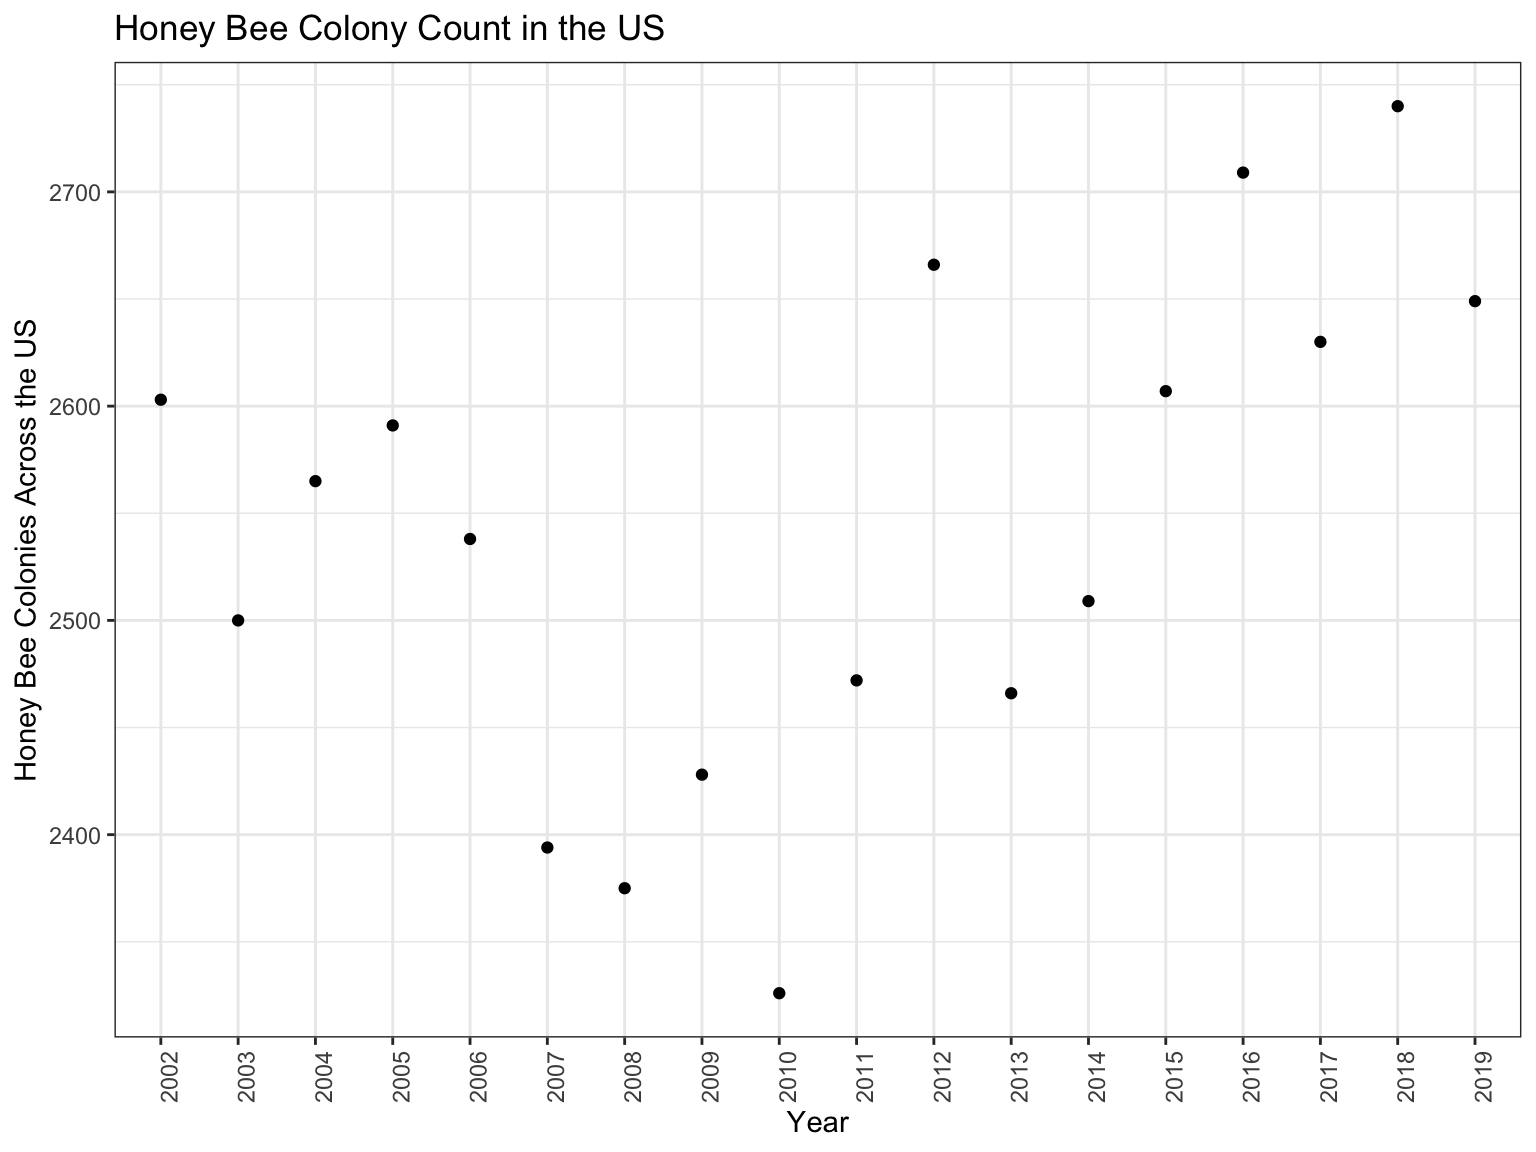
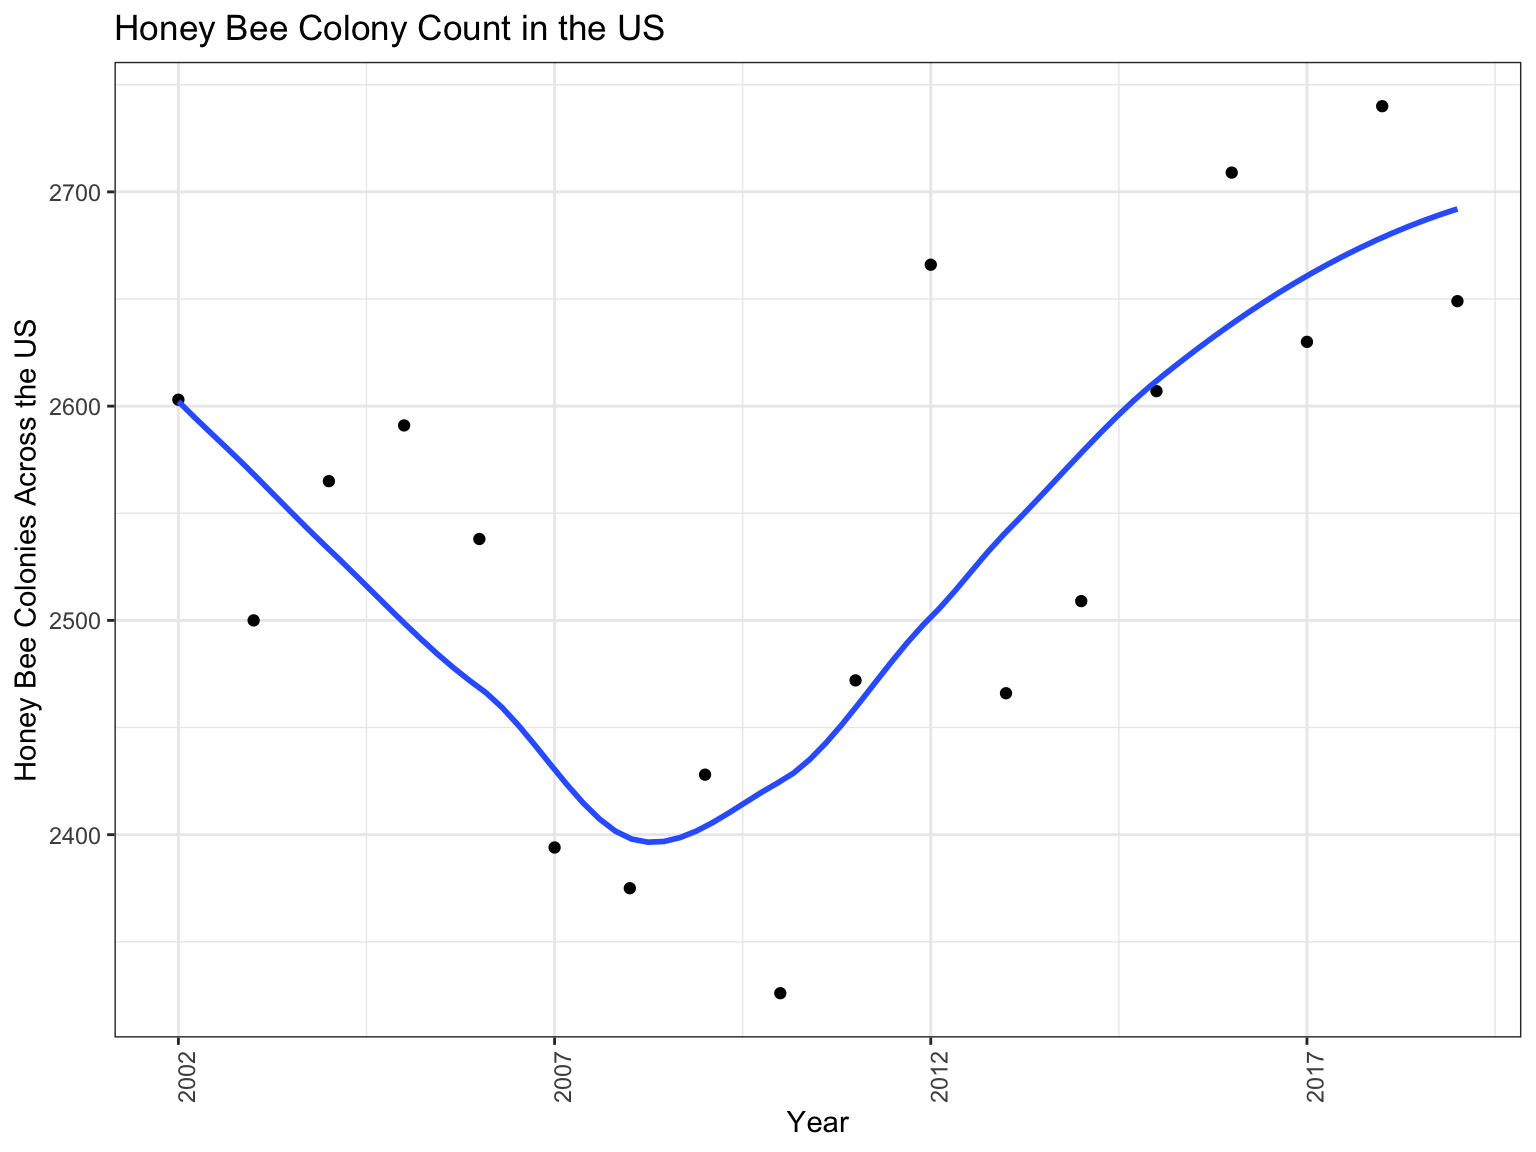
updated rmd with exported csv files

diff --git a/Analysis-and-Visualization.html b/Analysis-and-Visualization.html
@@ -277,10 +277,13 @@ $(document).ready(function () {
       </ul>
       <ul class="nav navbar-nav navbar-right">
         <li>
-  <a href="landing.html">Background</a>
+  <a href="dashboard.html">Bees</a>
 </li>
 <li>
-  <a href="dashboard.html">Bee Variability</a>
+  <a href="pesticides.html">Pesticides</a>
+</li>
+<li>
+  <a href="screen.html">Screencast</a>
 </li>
 <li>
   <a href="report.html">Report</a>
@@ -311,11 +314,144 @@ $(document).ready(function () {
 </div>
 
 
-<div id="need-to-change-the-labels-and-axis-for-all-graphs" class="section level2">
-<h2>need to change the labels and axis for all graphs</h2>
-<p>r # honey bee population for country by year clean_bee_data %&gt;% group_by(year) %&gt;% summarise(n = sum(honey_producing_colonies)) %&gt;% ggplot(aes(x = year, y = n)) + geom_point() + theme(axis.text.x = element_text(angle = 90)) + labs( title = “Honey Bee Colony Count in the US”, x = “Year”, y = “Honey Bee Colonies Across the US” )</p>
-<p>r # all bee population for country by year year_county_bee = bee_county %&gt;% mutate(colony_count = as.numeric(colony_count)) %&gt;% drop_na(colony_count) %&gt;% group_by(year) %&gt;% summarise(n = sum(colony_count))</p>
-<p>year_county_bee %&gt;% ggplot(aes(x = year, y = n)) + geom_col() + theme(axis.text.x = element_text(angle = 90)) + labs( title = “Bee Colony Count in the US”, x = “Year”, y = “Bee Colonies Across the US” ) + scale_x_continuous( breaks = c(2002, 2007, 2012) ) + scale_y_continuous( breaks = c(100000, 200000, 225000, 250000, 275000, 300000) )</p>
+<pre class="r"><code>clean_bee_data = read_csv(&quot;./data/clean_bee_data.csv&quot;)</code></pre>
+<pre><code>## Parsed with column specification:
+## cols(
+##   X1 = col_double(),
+##   year = col_double(),
+##   state = col_character(),
+##   honey_producing_colonies = col_double(),
+##   yield_per_colony = col_double(),
+##   production = col_double(),
+##   stocks = col_double(),
+##   price_per_pound = col_double(),
+##   production_value = col_double()
+## )</code></pre>
+<pre class="r"><code># honey bee population for country by year
+clean_bee_data %&gt;%
+   mutate(year = as.numeric(year)) %&gt;%
+   group_by(year) %&gt;%
+   summarise(n = sum(honey_producing_colonies)) %&gt;%
+   ggplot(aes(x = year, y = n)) + 
+   geom_point() + 
+   geom_smooth(se = FALSE) +
+   theme(axis.text.x = element_text(angle = 90)) +
+   labs(
+     title = &quot;Honey Bee Colony Count in the US&quot;,
+     x = &quot;Year&quot;,
+     y = &quot;Honey Bee Colonies Across the US&quot;) +
+   scale_x_continuous(
+      breaks = c(2002, 2007, 2012, 2017))</code></pre>
+<pre><code>## `geom_smooth()` using method = &#39;loess&#39; and formula &#39;y ~ x&#39;</code></pre>
+<p><img src="Analysis-and-Visualization_files/figure-html/unnamed-chunk-1-1.png" width="90%" /></p>
+<pre class="r"><code>bee_county = read_csv(&quot;./data/bee_county.csv&quot;)</code></pre>
+<pre><code>## Parsed with column specification:
+## cols(
+##   X1 = col_double(),
+##   year = col_double(),
+##   state = col_character(),
+##   state_ansi = col_character(),
+##   ag_district = col_character(),
+##   ag_district_code = col_double(),
+##   county = col_character(),
+##   county_ansi = col_character(),
+##   colony_count = col_number(),
+##   cv_percent = col_character(),
+##   state_county_fips = col_character()
+## )</code></pre>
+<pre class="r"><code>bee_county %&gt;%
+   mutate(colony_count = as.numeric(colony_count)) %&gt;%
+   drop_na(colony_count) %&gt;%
+   group_by(year) %&gt;%
+   summarise(n = sum(colony_count)) %&gt;%
+   ggplot(aes(x = year, y = n)) + 
+   geom_point() + 
+   geom_smooth() +
+     theme(axis.text.x = element_text(angle = 90)) +
+   labs(
+     title = &quot;Bee Colony Count in the US&quot;,
+      x = &quot;Year&quot;,
+     y = &quot;Bee Colonies Across the US&quot;) + 
+   scale_x_continuous(
+      breaks = c(2002, 2007, 2012))</code></pre>
+<pre><code>## `geom_smooth()` using method = &#39;loess&#39; and formula &#39;y ~ x&#39;</code></pre>
+<p><img src="Analysis-and-Visualization_files/figure-html/unnamed-chunk-2-1.png" width="90%" /></p>
+<pre class="r"><code>top_pesticides = read_csv(&quot;./data/top_pesticides.csv&quot;)</code></pre>
+<pre><code>## Parsed with column specification:
+## cols(
+##   X1 = col_double(),
+##   compound = col_character(),
+##   year = col_double(),
+##   epest_low_kg = col_double(),
+##   epest_high_kg = col_double(),
+##   state_fips = col_character(),
+##   county_fips = col_character(),
+##   state_county_fips = col_character()
+## )</code></pre>
+<pre class="r"><code>top_pesticides %&gt;%
+  group_by(compound, year) %&gt;%
+   na.omit(epest_high_kg) %&gt;%
+   summarise(n = sum(epest_high_kg)) %&gt;%
+   ggplot(aes(x = year, y = n, color = compound)) + 
+   geom_point() + 
+   geom_smooth(se = FALSE) +
+     theme(axis.text.x = element_text(angle = 90)) +
+     labs(
+     title = &quot;Pesticide Use in the US&quot;,
+     x = &quot;Year&quot;,
+     y = &quot;Weight of Pesticide used in the US (kg)&quot;
+   )</code></pre>
+<pre><code>## `geom_smooth()` using method = &#39;loess&#39; and formula &#39;y ~ x&#39;</code></pre>
+<p><img src="Analysis-and-Visualization_files/figure-html/unnamed-chunk-3-1.png" width="90%" /></p>
+<pre class="r"><code># high range of pesticide use
+ top_pesticides %&gt;%
+   group_by(year) %&gt;%
+   na.omit(epest_high_kg) %&gt;%
+   summarise(n = sum(epest_high_kg)) %&gt;%
+   ggplot(aes(x = year, y = n)) + 
+   geom_point() + 
+   geom_smooth(se = FALSE) +
+     theme(axis.text.x = element_text(angle = 90)) +
+    theme(axis.text.x = element_text(angle = 90)) +
+       labs(
+     title = &quot;Pesticide Use in the US&quot;,
+     x = &quot;Year&quot;,
+     y = &quot;Weight of Pesticide used in the US (kg)&quot;
+   )</code></pre>
+<pre><code>## `geom_smooth()` using method = &#39;loess&#39; and formula &#39;y ~ x&#39;</code></pre>
+<p><img src="Analysis-and-Visualization_files/figure-html/unnamed-chunk-4-1.png" width="90%" /></p>
+<pre class="r"><code> #low range of pesticide use
+ top_pesticides %&gt;%
+   group_by(year) %&gt;%
+   na.omit(epest_low_kg) %&gt;%
+   summarise(n = sum(epest_low_kg)) %&gt;%
+   ggplot(aes(x = year, y = n)) + 
+   geom_point() + 
+   geom_smooth(se = FALSE) +
+     theme(axis.text.x = element_text(angle = 90)) +
+     theme(axis.text.x = element_text(angle = 90)) +
+       labs(
+     title = &quot;Pesticide Use in the US&quot;,
+     x = &quot;Year&quot;,
+     y = &quot;Weight of Pesticide used in the US (kg)&quot;
+   )</code></pre>
+<pre><code>## `geom_smooth()` using method = &#39;loess&#39; and formula &#39;y ~ x&#39;</code></pre>
+<p><img src="Analysis-and-Visualization_files/figure-html/unnamed-chunk-4-2.png" width="90%" /></p>
+<pre class="r"><code>#library(maps)
+
+#map(database = &quot;United States&quot;)</code></pre>
+<pre class="r"><code>#library(choroplethr)
+#library(choroplethrAdmin1)
+
+#get_admin1_regions(&quot;united states of america&quot;)</code></pre>
+<div id="state-and-pesticide" class="section level1">
+<h1>state and pesticide</h1>
+<p>merged_state_data %&gt;% mutate(year = as.numeric(year.x)) %&gt;% group_by(year, compound) %&gt;% summarise(colonies = sum(honey_producing_colonies), pesticides = sum(high)) %&gt;% ggplot(aes(x = year, y = pesticides, color = compound) + geom_point() + geom_smooth(se = FALSE) + theme(axis.text.x = element_text(angle = 90)) + labs( title = “Honey Bee Colony Count in the US”, x = “Year”, y = “Honey Bee Colonies Across the US”)</p>
+<p>======= us_counties = map_data(“county”) %&gt;%</p>
+<p>p = ggplot(data = us_counties, mapping = aes(x = long, y = lat, group = group, fill = region))</p>
+<p>p2 = p + geom_polygon(color = “gray90”, size = 0.1) + coord_map(projection = “albers”, lat0 = 39, lat1 = 45) + guides(fill = FALSE)</p>
+<p>p2 ```</p>
+<p>clean_bee_data %&gt;% group_by(year) %&gt;% summarise(n = sum(honey_producing_colonies)) %&gt;% ggplot(aes(x = year, y = n)) + geom_point() + theme(axis.text.x = element_text(angle = 90)) + labs( title = “Honey Bee Colony Count in the US”, x = “Year”, y = “Honey Bee Colonies Across the US” )</p>
 </div>
 
 
